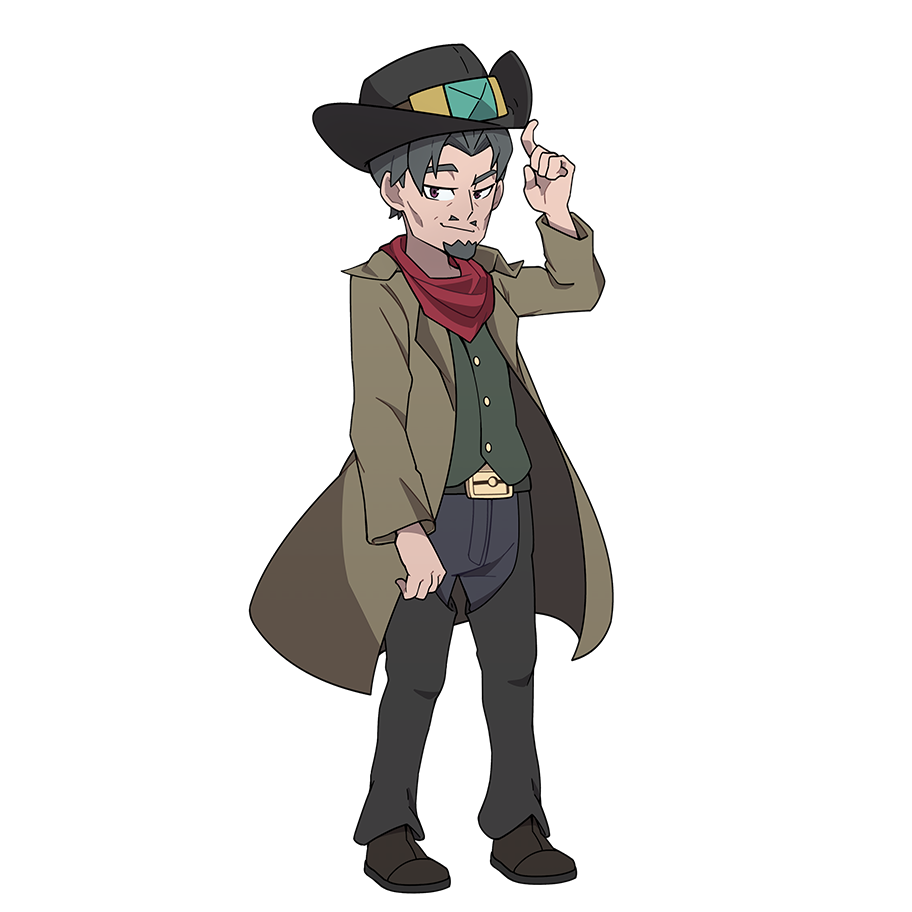
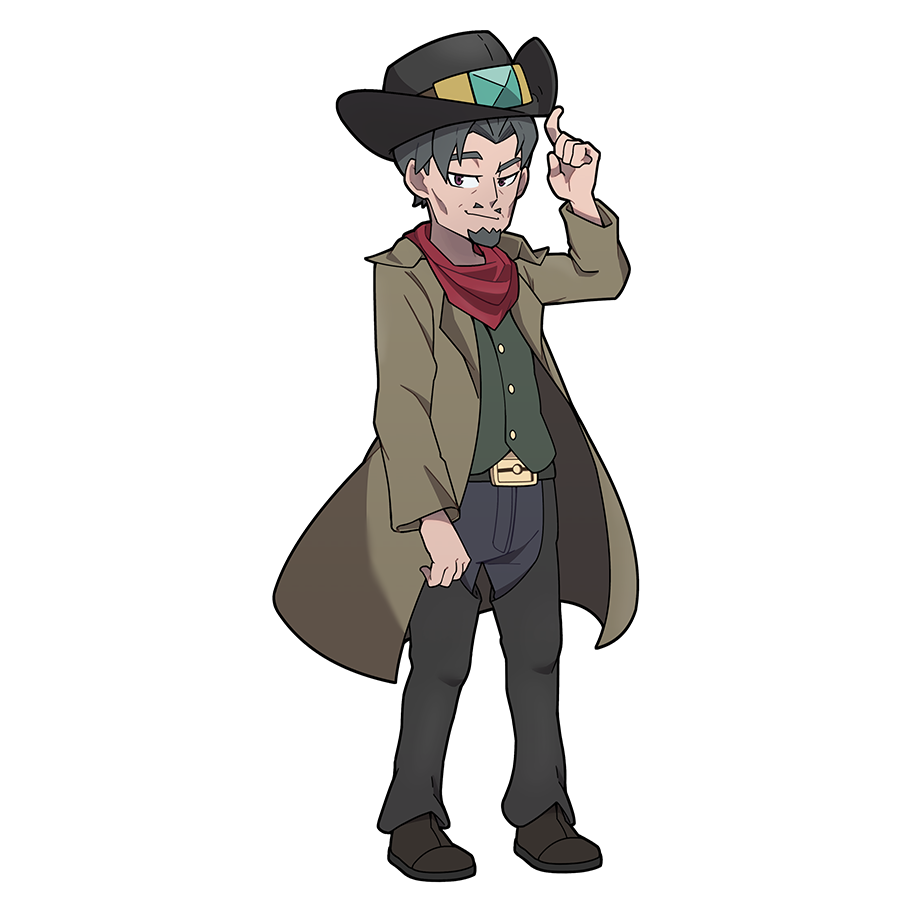
updated characters page with trapper!

Changed region(s): [[0.2763, 0.0307, 0.7061, 0.9825]]

diff --git a/characters.html b/characters.html
@@ -38,7 +38,7 @@
         <a href="misc/%3F%3F%3F"><img src="images/pokes/000.png" alt="???" /><br/>???</a>
       </div>
       <div class="character-card">
-        <a href="misc/%3F%3F%3F"><img src="images/pokes/000.png" alt="???" /><br/>???</a>
+        <a href="misc/%3F%3F%3F"><img src="images/pokes/thetrapper.png" alt="???" /><br/>???</a>
       </div>
       <div class="character-card">
         <a href="misc/%3F%3F%3F"><img src="images/pokes/000.png" alt="???" /><br/>???</a>
